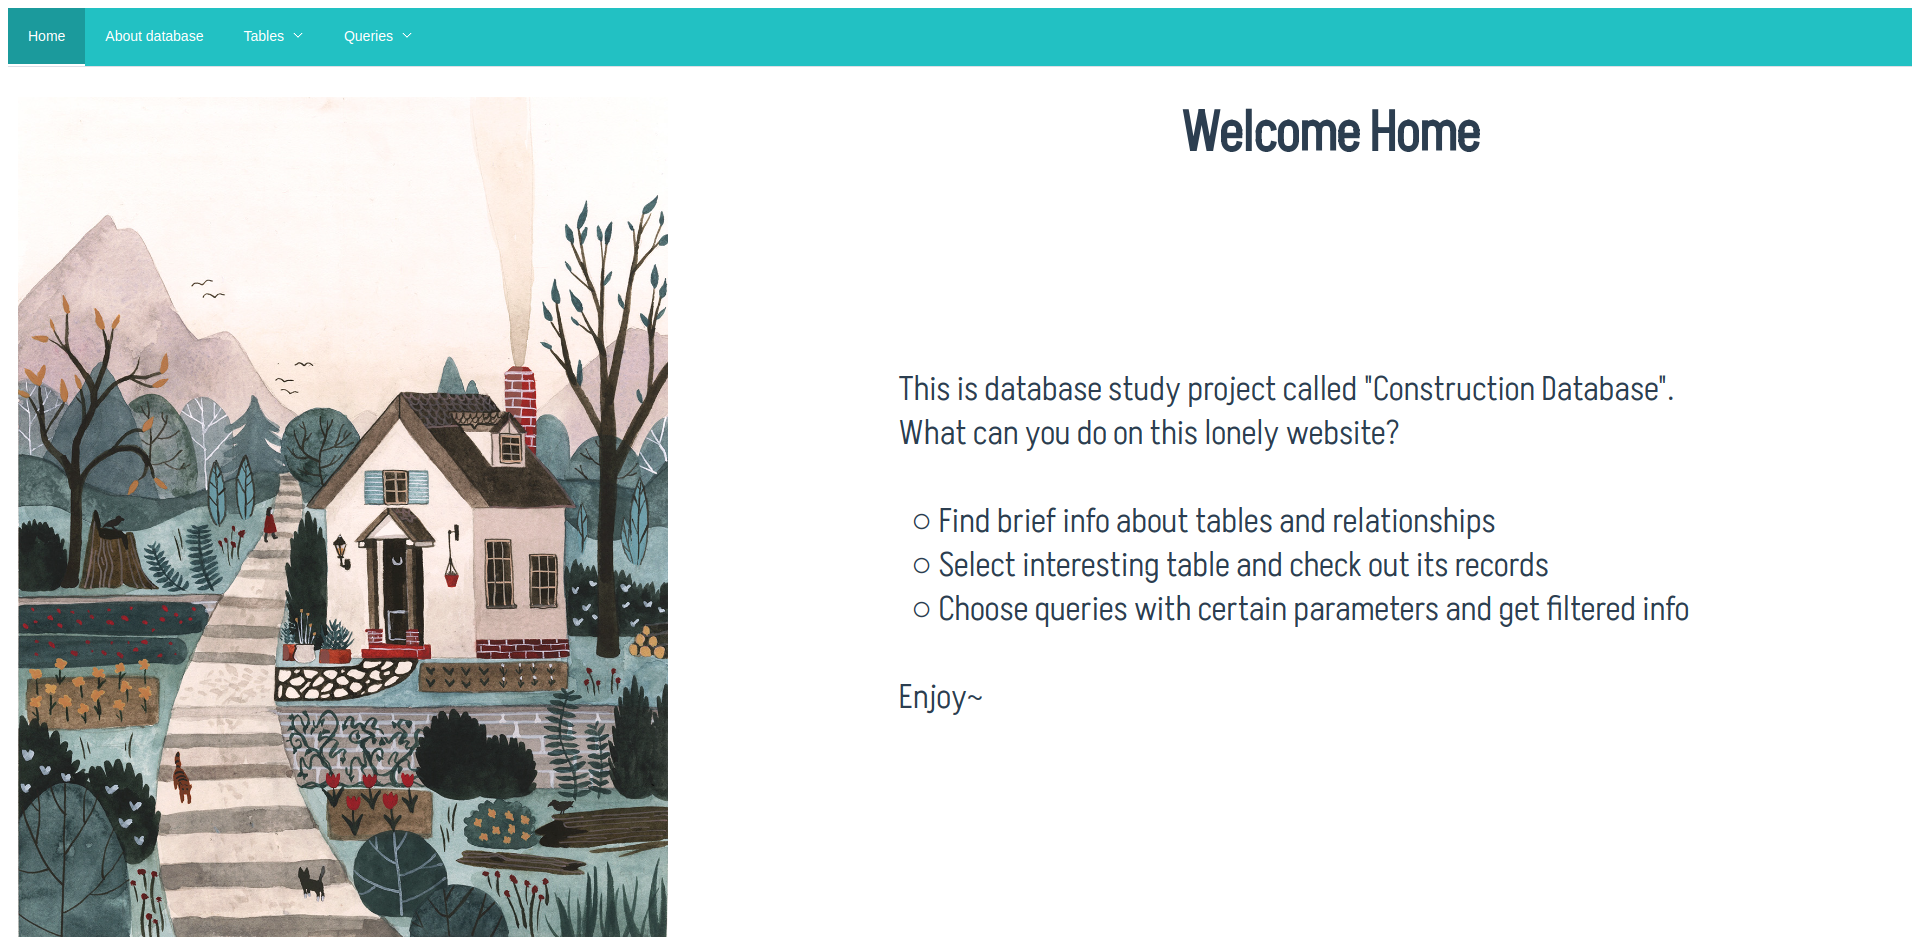
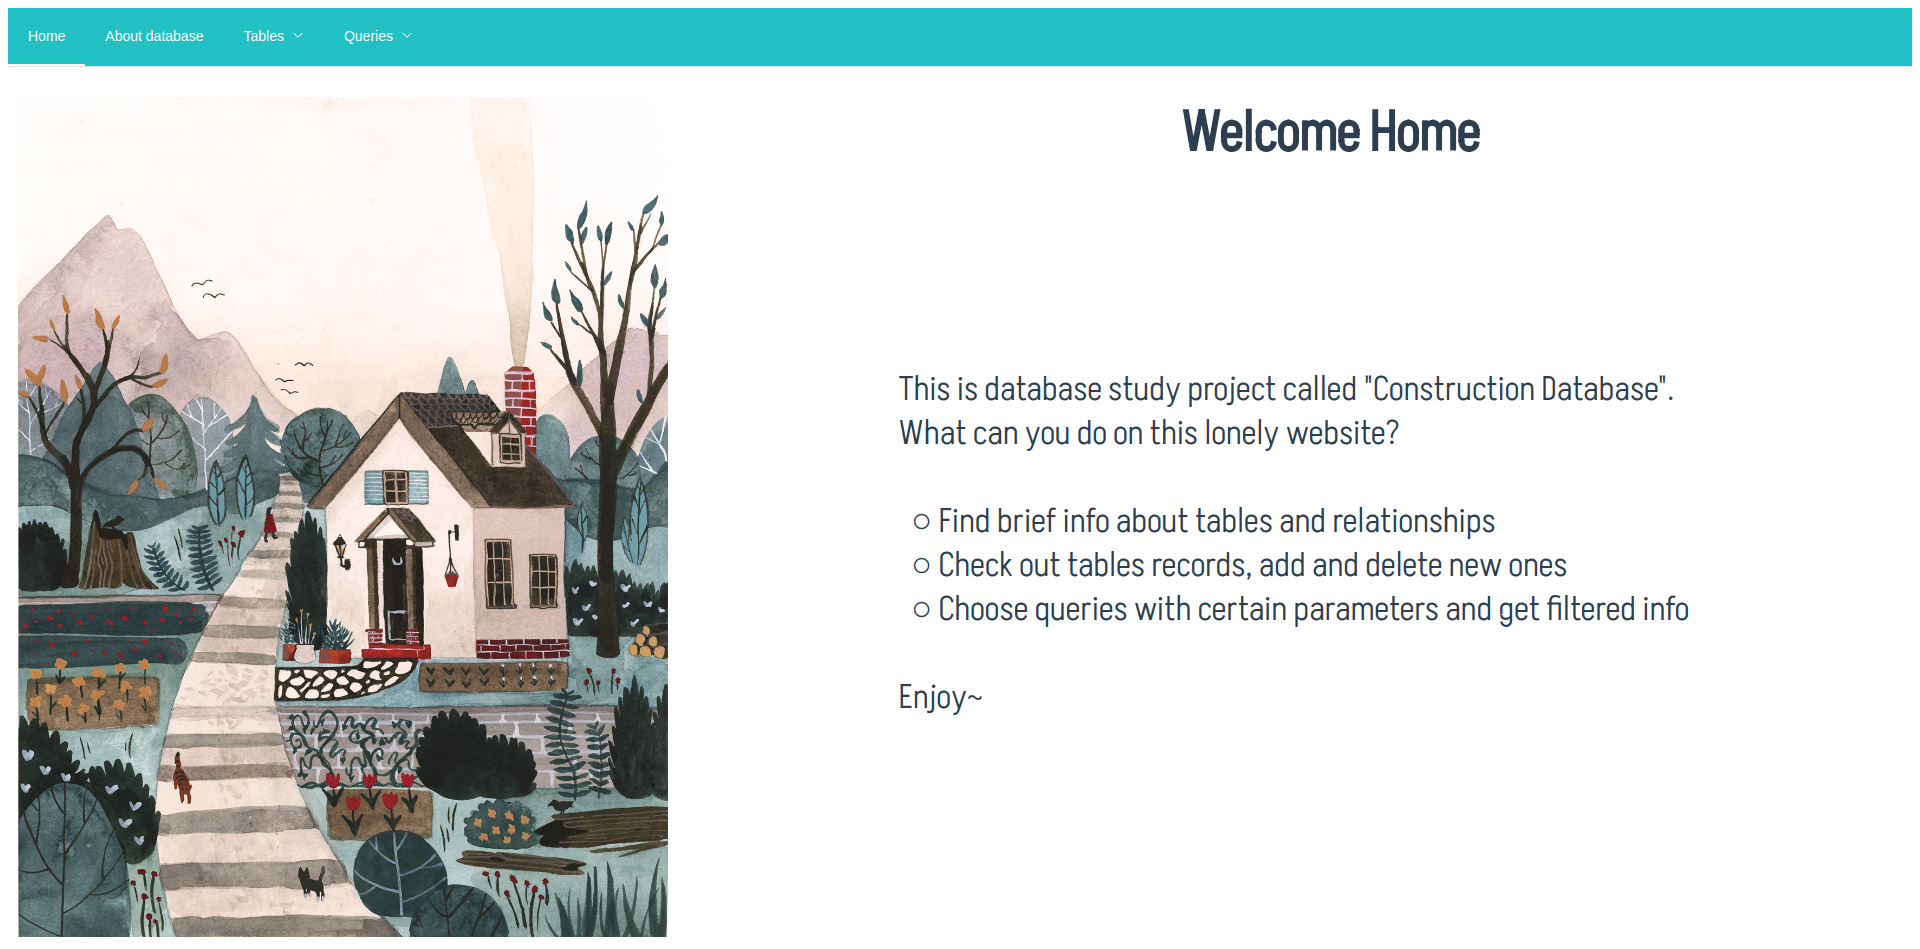
changed README, added screenshots

diff --git a/frontend/src/components/HomePage.vue b/frontend/src/components/HomePage.vue
@@ -9,7 +9,7 @@
         What can you do on this lonely website?
 
           ○ Find brief info about tables and relationships
-          ○ Select interesting table and check out its records
+          ○ Check out tables records, add and delete new ones
           ○ Choose queries with certain parameters and get filtered info
 
         Enjoy~
